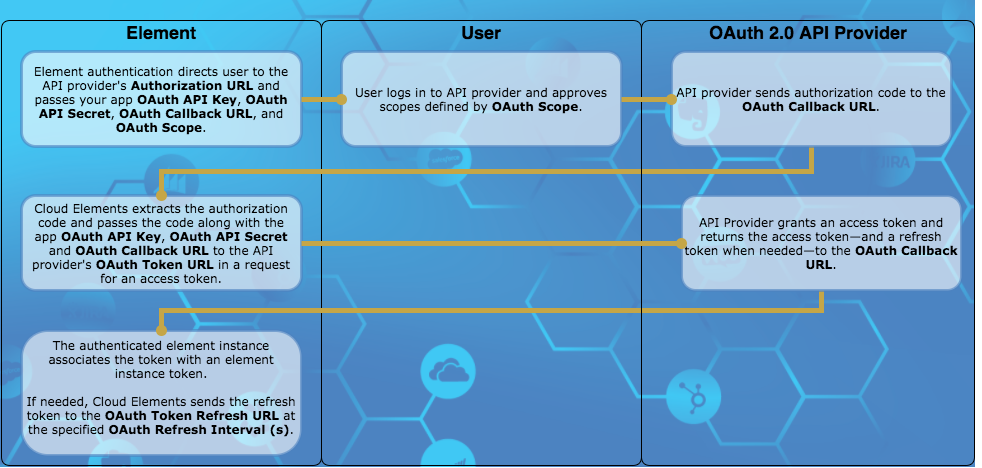
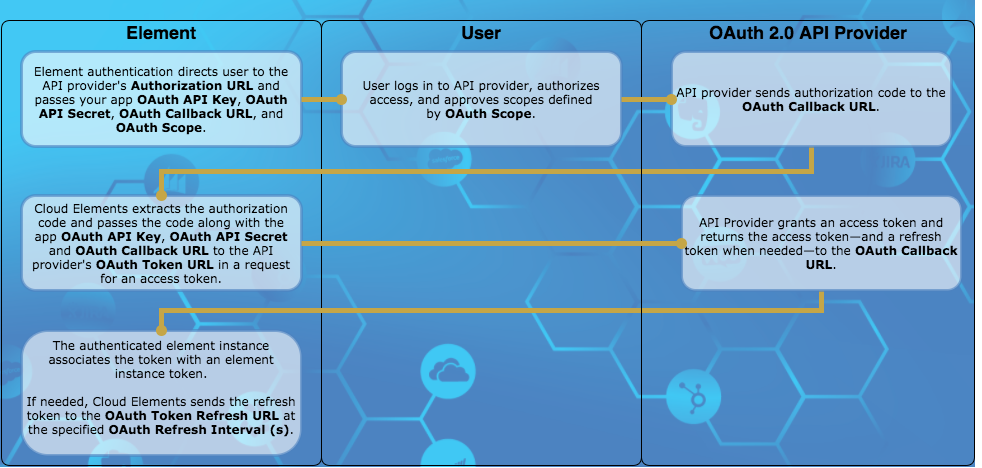
Added detailed docs for OAuth 1 and 2 and made some minor tweaks to other content

Changed region(s): [[0.3666, 0.1795, 0.611, 0.2692]]

diff --git a/docs/guides/elements/auth.md b/docs/guides/elements/auth.md
@@ -21,13 +21,13 @@ The information that you need to enter to set up authentication with the API pro
 
 Click the authentication type that you selected to see configuration instructions. If you selected Custom, you can skip directly to [Configuration and Parameters](config.html).
 
-{% include callout.html content="<strong>On this page</strong></br><a href=#configure-oauth-2-0>Configure OAuth 2.0</a></br><a href=#configure-oauth-1-0>Configure OAuth 1.0</a></br><a href=#configure-basic-authentication>Configure Basic Authentication</a></br><a href=#configure-custom-authentication>Configure Custom Authentication</a></br><a href=#configure-aws-authentication>Configure AWS Authentication</a></br><a href=#change-the-authentication-type>Change the Authentication Type</a>" type="info" %}
+{% include callout.html content="<strong>On this page</strong></br><a href=#configure-oauth-2-0>Configure OAuth 2.0</a></br><a href=#configure-oauth-1-0>Configure OAuth 1.0</a></br><a href=#configure-basic-authentication>Configure Basic Authentication</a></br><a href=#configure-custom-authentication>Configure Custom Authentication</a></br><a href=#configure-aws-authentication>Configure AWS Authentication</a></br><a href=#change-the-authentication-type>Change the Authentication Type</a></br><a href=#about-oauth-authentication> About Oauth Authentication</a>" type="info" %}
 
 ## Configure OAuth 2.0
 
 Cloud Elements provides the [properties](#oauth-2-0-parameters) needed to support a standard OAuth 2.0 flow. Each API provider implements OAuth 2.0 differently so you might need to supplement the parameters with additional configuration. Before setting up the OAuth 2.0 information, you need to create a Cloud Elements app at the API provider. Use the default information from that app. When users authenticate through Cloud Elements, they will connect with that app.
 
-The [OAuth 2.0](#oauth-2-0) entry in the [About Authentication](#about-authentication) section includes more details about the most common OAuth 2.0 authentication flow and example OAuth 2.0 element to download and import.
+The [OAuth 2.0](#oauth-2-0) entry in the [About Authentication](#about-authentication) section includes more details about the most common OAuth 2.0 authentication flow.
 
 To configure OAuth 2.0 elements:
 
@@ -61,6 +61,8 @@ To configure OAuth 2.0 elements:
 ## Configure OAuth 1.0
 
 Cloud Elements provides the [parameters](#oauth-1-0-parameters) required to support a standard OAuth 1.0 flow. Each API provider implements OAuth 1.0 differently so you might need to supplement the parameters with additional configuration.
+
+The [OAuth 1.0](#oauth-1-0) entry in the [About Authentication](#about-authentication) section includes more details about the most common OAuth 2.0 authentication flow.
 
 To configure OAuth 1.0 elements:
 
@@ -124,6 +126,8 @@ Continue to the next step, [Custom Configuration and Parameters](config.html).
 
 ## About Authentication
 
+OAuth is a common authentication protocol for REST APIs and Cloud Elements supports both [OAuth 2.0](#oauth-2-0) and [OAuth 1.0](##oauth-1-0). You need to set up more information for OAuth elements than other authentication types. This section provides more details about how these authentication types work and how Cloud Elements uses the information you provide when building custom elements.
+
 ### OAuth 2.0
 
 The OAuth 2.0 protocol lets external applications &mdash; your application or Cloud Elements &mdash; request authorization to access and update a users data without asking users for sensitive user names and passwords. OAuth 2.0 is flexible, but that also means that each API provider implements it differently.
@@ -138,7 +142,7 @@ This section describes how Cloud Elements supports the [Authorization Code Grant
 
 ![OAuth 2 Flow](img/OAuth-2-flow.png)
 
-The typical Authorization Code Grant as supported by Cloud Elements includes the following steps:
+The typical Authorization Code Grant flow as supported by Cloud Elements includes the following steps:
 
 1. Cloud Elements requests authorization on behalf of your app by redirecting a user to the API provider's **Authorization URL**. Cloud Elements includes the following parameters as part of the request:
   * **OAuth API Key**
@@ -158,13 +162,13 @@ The typical Authorization Code Grant as supported by Cloud Elements includes the
 7. If the tokens expire, Cloud Elements sends the refresh token to the **OAuth Token Refresh URL** at the specified **OAuth Refresh Interval (s)**.
 8. The API provider responds with a new access token and refresh token to be used at the next refresh.
 
-#### Prerequisites
+#### OAuth 2.0 Prerequisites
 
-Before you can authenticate an element instance, you must register your application with the API provider. Each registration is assigned some form of an API key (client id, client key, etc.) and secret. In Cloud Elements, these are the **OAuth API Key** and **OAuth API Secret**. You also usually need to provide a redirect URI which should match what you include in the **OAuth Callback URL**. If you want users to authentciate through Cloud Elements as opposed to programmatically through APIs in your application, use `https://auth.cloudelements.io/oauth`.
+Before you can authenticate an element instance, you must register your application with the API provider. Each registration is assigned some form of an API key (client id, client key, etc.) and secret. In Cloud Elements, these are the **OAuth API Key** and **OAuth API Secret**. You also usually need to provide a redirect URI which should match what you include in the **OAuth Callback URL**. If you want users to authenticate through Cloud Elements as opposed to programmatically through APIs in your application, use `https://auth.cloudelements.io/oauth`.
 
 Some API provider require scopes let you limit the authorization to a subset of the data. When users grant authorization, they are shown the scopes and acknowledge that they grant access to them. The user must allow access to all or to none. The scopes that you set up in the application should match the **OAuth Scope**.
 
-#### Authentication JSON
+#### OAuth 2.0 Authentication JSON
 
 The JSON used to authenticate an element instance looks like this:
 
@@ -186,5 +190,61 @@ The JSON used to authenticate an element instance looks like this:
     "<Add_Your_Tag>"
   ],
   "name": "<INSTANCE_NAME>"
+}
+```
+
+### OAuth 1.0
+
+OAuth 1.0 is an older version of the OAuth protocol. Like OAuth 2.0, the OAuth 1.0 protocol lets external applications &mdash; your application or Cloud Elements &mdash; request authorization to access and update a users data without asking users for sensitive user names and passwords. OAuth 1.0 is also flexible with multiple different ways to implement it.
+
+This section describes how Cloud Elements supports the [OAuth Core 1.0 Revision A](https://oauth.net/core/1.0a/) authentication flow. The typical OAuth 1.0 authorization flow is a three-legged authentication process:
+
+1. Request temporary credentials. Cloud Elements requests temporary credentials in the form of a Request Token from the API provider.
+2. Authorize. The user logs in to the API provider and grants the temporary Request Token access.
+3. Token exchange. Cloud Elements exchanges the temporary Request Token for a more long-term access token.
+
+#### Cloud Elements OAuth 1.0 Flow
+
+![OAuth 1 Flow](img/OAuth-1-flow.png)
+
+The typical OAuth 1.0 flow as supported by Cloud Elements includes the following steps:
+
+1. Cloud Elements sends a request to the API provider's **OAuth Request URL** for a Request Token. Cloud Elements includes the following parameters as part of the request:
+  * **OAuth API Key**
+  * **OAuth API Secret**
+  * **OAuth Callback URL**
+2. The API provider returns the temporary Request Token and a secret associated with the token.
+2. Cloud Elements directs the user to the **OAuth Authorization URL** where they log in and grant access. If the request included **OAuth Scope**, the user must grant access to all scopes or none.
+3. The API provider authorizes the temporary Request Token and redirects the user back to the **OAuth Callback URL** with the authorized Request Token and an OAuth verifier.
+4. Cloud Elements sends a request to the **OAuth Token URL** and exchanges the authorized Request Token for a long-term Access Token.
+6. Cloud Elements associates an element instance token with the Access Token. You will use that element instance token in future requests.
+
+#### OAuth 1.0 Prerequisites
+
+Before you can authenticate an element instance, you must register your application with the API provider. Each registration is assigned some form of an API key (client id, client key, etc.) and secret. In Cloud Elements, these are the **OAuth API Key** and **OAuth API Secret**. You also usually need to provide a redirect URI which should match what you include in the **OAuth Callback URL**. If you want users to authenticate through Cloud Elements as opposed to programmatically through APIs in your application, use `https://auth.cloudelements.io/oauth`.
+
+#### OAuth 1.0 Authentication JSON
+
+The JSON used to authenticate an element instance looks like this:
+
+```json
+{
+  "element": {
+    "key": "twitter"
+  },
+  "providerData": {
+    "oauth_token": "<OAUTH_TOKEN_RETURNED_IN_OAUTH_EXCHANGE>",
+    "oauth_verifier": "<OAUTH_VERIFIER_RETURNED_IN_OAUTH_EXCHANGE>",
+    "secret": "<SECRET_RETURNED_IN_OAUTH_EXCHANGE>"
+  },
+  "configuration": {
+    "oauth.api.key": "<INSERT_QUICKBOOKS_API_KEY>",
+    "oauth.api.secret": "<INSERT_QUICKBOOKS_API_SECRET>",
+    "oauth.callback.url": "<SAME CALLBACK URL USED IN STEP 2>"
+  },
+  "tags": [
+    "<INSERT_TAGS>"
+  ],
+  "name": "<INSERT_INSTANCE_NAME>"
 }
 ```
